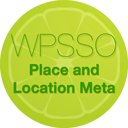
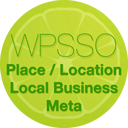
v2.0.0-1 cleanup unassociated plm_addr_id, plugin name update, asset update

diff --git a/lib/submenu/plm-general.php b/lib/submenu/plm-general.php
@@ -111,7 +111,18 @@ if ( ! class_exists( 'WpssoPlmSubmenuPlmgeneral' ) && class_exists( 'WpssoAdmin'
 					list( $first_id, $next_id ) = WpssoPlmAddress::get_first_next_ids( $address_names );
 					$address_names[$next_id] = WpssoPlmConfig::$cf['form']['plm_address']['new'];
 
-					$this->form->defaults['plm_addr_id'] = 0;	// default can also be 'custom' in social settings metabox
+					// check to make sure the selected id exists
+					// if not, then unset to use the default
+					if ( isset( $this->form->options['plm_addr_id'] ) ) {
+						$id = $this->form->options['plm_addr_id'];
+						if ( isset( $this->form->options['plm_addr_name_'.$id] ) &&
+							trim( $this->form->options['plm_addr_name_'.$id] ) === '' )
+								unset( $this->form->options['plm_addr_id'] );
+					}
+
+					// default can also be 'custom' in the social settings metabox
+					$this->form->defaults['plm_addr_id'] = 0;
+
 					$table_rows['plm_addr_id'] = $this->form->get_th_html( _x( 'Edit an Address',
 						'option label', 'wpsso-plm' ), '', 'plm_addr_id' ).
 					'<td colspan="3">'.$this->form->get_select( 'plm_addr_id', $address_names,

diff --git a/lib/filters.php b/lib/filters.php
@@ -281,9 +281,14 @@ if ( ! class_exists( 'WpssoPlmFilters' ) ) {
 			$address_names = WpssoPlmAddress::get_names( $opts );
 
 			// remove all addresses with an empty name value
+			// remove the associated plm_addr_id value if required
 			foreach ( $address_names as $id => $name ) {
 				if ( trim( $name ) === '' ) {
-					$opts = SucomUtil::preg_grep_keys( '/^plm_addr_.*_'.$id.'$/', $opts, true );	// $invert = true
+					if ( isset( $opts['plm_addr_id'] ) &&
+						$opts['plm_addr_id'] === $id )
+							unset( $opts['plm_addr_id'] );
+					$opts = SucomUtil::preg_grep_keys( '/^plm_addr_.*_'.$id.'$/',
+						$opts, true );	// $invert = true
 				}
 			}
 
